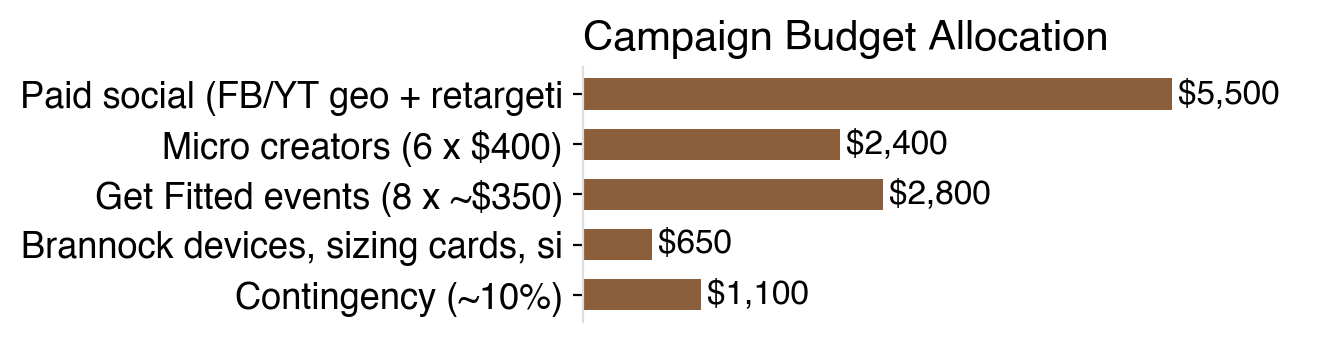
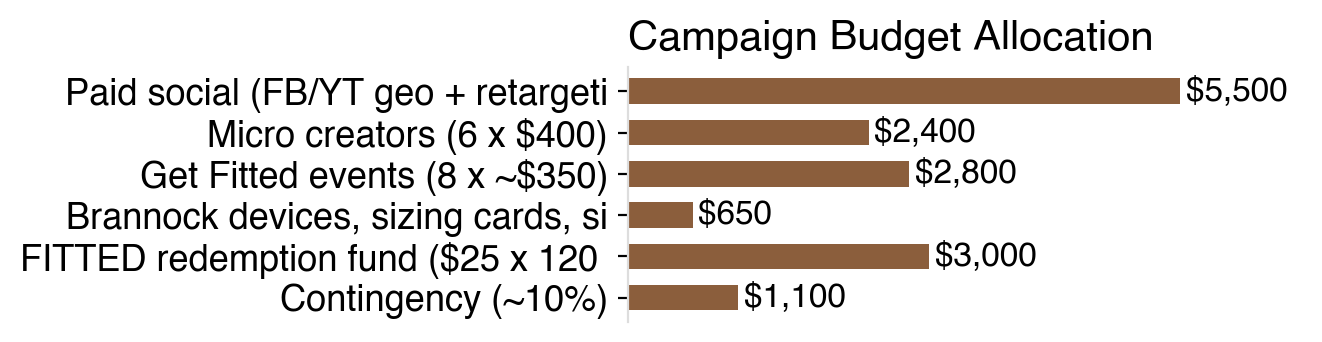
v23 fixes: pending->measurement plan, FITTED fund line item (+75% honest ROI), Tecovas differentiation claim, venue swap

Changed region(s): [[0.0, 0.2047, 0.9924, 0.9357], [0.4342, 0.0585, 0.8684, 0.1754]]

diff --git a/pipeline/runs/v23/imcp/p17.html b/pipeline/runs/v23/imcp/p17.html
@@ -68,4 +68,4 @@ img.vis{max-width:100%;max-height:560px;border-radius:16px;object-fit:contain;bo
 .tag{display:inline-block;background:var(--brand);color:#fff;border-radius:999px;padding:5px 14px;font-size:14px;font-weight:800;letter-spacing:.06em}
 .mono{font-family:'SF Mono',Menlo,monospace}
 </style></head>
-<body class="style-editorial"><div class="page" style="background:#ffffff"><div class="frame"></div><div class="kick">BUDGET &amp; FINANCIAL VIABILITY</div><div class="h1">Budget &amp; Financial Viability</div><div class="tbar"></div><div class="cols2"><div class="col"><table class="tb"><tr><th>LINE ITEM</th><th style="text-align:right">COST</th></tr><tr><td>Paid social (FB/YT geo + retargeting)</td><td style="text-align:right;font-weight:800">$5,500</td></tr><tr><td>Micro creators (6 x $400)</td><td style="text-align:right;font-weight:800">$2,400</td></tr><tr><td>Get Fitted events (8 x ~$350)</td><td style="text-align:right;font-weight:800">$2,800</td></tr><tr><td>Brannock devices, sizing cards, signage</td><td style="text-align:right;font-weight:800">$650</td></tr><tr><td>Contingency (~10%)</td><td style="text-align:right;font-weight:800">$1,100</td></tr><tr><td style="font-weight:900">TOTAL</td><td style="text-align:right;font-weight:900">$12,450</td></tr></table><img src="file:///Users/pranav/Desktop/DevinProjects/imcp-product-finder/pipeline/runs/v23/imcp/charts/budget.png" style="width:100%;max-height:330px;object-fit:contain;border-radius:12px;margin-top:14px"></div><div class="col"><div style="margin-top:14px"><span class="statp">$12,450</span><span class="statp">ROI: 117%</span><span class="statp">CAC: $103.75</span><br><span class="statp" style="background:#57534a">BE: 55 orders</span><span class="statp" style="background:#57534a">Cons: 8%</span></div><div class="body" style="margin-top:16px;font-size:19px"><li class=""><b>Total $12,450:</b> paid social $5.5K; creators $2.4K; events $2.8K; production $650; contingency ~10%.</li><li class=""><b>Funnel:</b> 800K impressions x 2.5% CTR x 0.6% purchase = ~120 orders = $54K revenue.</li><li class=""><b>GP 50% = $27K; direct ROI ~+134% base -</b> a $450 AOV changes the math: 120 orders covers the budget.</li><li class=""><b>Conservative (50%):</b> 60 orders, ROI ~+17% - still positive; the first candidate whose math works.</li></div></div></div><div class="navbar"><div class="navpills"><span class="navp">Product</span><span class="navp">Objectives</span><span class="navp">Target Market</span><span class="navp">Proposed Plan</span><span class="navp on">Expenses</span><span class="navp">Key Metrics</span></div><div class="pgcirc">17</div></div></div></body></html>
+<body class="style-editorial"><div class="page" style="background:#ffffff"><div class="frame"></div><div class="kick">BUDGET &amp; FINANCIAL VIABILITY</div><div class="h1">Budget &amp; Financial Viability</div><div class="tbar"></div><div class="cols2"><div class="col"><table class="tb"><tr><th>LINE ITEM</th><th style="text-align:right">COST</th></tr><tr><td>Paid social (FB/YT geo + retargeting)</td><td style="text-align:right;font-weight:800">$5,500</td></tr><tr><td>Micro creators (6 x $400)</td><td style="text-align:right;font-weight:800">$2,400</td></tr><tr><td>Get Fitted events (8 x ~$350)</td><td style="text-align:right;font-weight:800">$2,800</td></tr><tr><td>Brannock devices, sizing cards, signage</td><td style="text-align:right;font-weight:800">$650</td></tr><tr><td>FITTED redemption fund ($25 x 120 orders)</td><td style="text-align:right;font-weight:800">$3,000</td></tr><tr><td>Contingency (~10%)</td><td style="text-align:right;font-weight:800">$1,100</td></tr><tr><td style="font-weight:900">TOTAL</td><td style="text-align:right;font-weight:900">$15,450</td></tr></table><img src="file:///Users/pranav/Desktop/DevinProjects/imcp-product-finder/pipeline/runs/v23/imcp/charts/budget.png" style="width:100%;max-height:330px;object-fit:contain;border-radius:12px;margin-top:14px"></div><div class="col"><div style="margin-top:14px"><span class="statp">$15,450</span><span class="statp">ROI: 75%</span><span class="statp">CAC: $128.75</span><br><span class="statp" style="background:#57534a">BE: 69 orders</span><span class="statp" style="background:#57534a">Cons: -13%</span></div><div class="body" style="margin-top:16px;font-size:19px"><li class=""><b>Total $15,450:</b> paid social $5.5K; creators $2.4K; events $2.8K; production $650; FITTED fund $3K; contingency ~10%.</li><li class=""><b>Funnel:</b> 800K impressions x 2.5% CTR x 0.6% purchase = ~120 orders = $54K revenue.</li><li class=""><b>GP 50% = $27K; direct ROI ~+75% base -</b> the $450 AOV covers the full budget including redemptions.</li><li class=""><b>Conservative (50%):</b> 60 orders, ROI ~-13% - the only candidate whose upside case is self-funding.</li></div></div></div><div class="navbar"><div class="navpills"><span class="navp">Product</span><span class="navp">Objectives</span><span class="navp">Target Market</span><span class="navp">Proposed Plan</span><span class="navp on">Expenses</span><span class="navp">Key Metrics</span></div><div class="pgcirc">17</div></div></div></body></html>

diff --git a/pipeline/runs/v23/imcp/p10.html b/pipeline/runs/v23/imcp/p10.html
@@ -68,4 +68,4 @@ img.vis{max-width:100%;max-height:560px;border-radius:16px;object-fit:contain;bo
 .tag{display:inline-block;background:var(--brand);color:#fff;border-radius:999px;padding:5px 14px;font-size:14px;font-weight:800;letter-spacing:.06em}
 .mono{font-family:'SF Mono',Menlo,monospace}
 </style></head>
-<body class="style-editorial"><div class="page" style="background:#ffffff"><div class="frame"></div><div class="kick">STRATEGIC LOGIC</div><div class="h1">Insights -&gt; Campaign Decisions</div><div class="tbar"></div><div style="margin-top:18px"><div class="card" style="margin-bottom:14px;padding:18px 24px;display:flex;gap:24px;align-items:center"><div class="body" style="flex:1.4;font-size:19px"><b>[R1]</b> 93% four-plus-star on quality across 250 reviews - &#x27;soft leather&#x27;, &#x27;cushioned insoles&#x27;, craftsmanship is loved; the product is not the problem</div><div class="arrow">→</div></div><div class="card" style="margin-bottom:14px;padding:18px 24px;display:flex;gap:24px;align-items:center"><div class="body" style="flex:1.4;font-size:19px"><b>[R2]</b> Complaints cluster on sizing/fit (&#x27;struggle&#x27;, &#x27;hurt&#x27;, &#x27;instep&#x27;) - the only recurring negative is the fit gamble DTC can&#x27;t resolve</div><div class="arrow">→</div><div class="body" style="flex:1;font-size:18px;color:var(--brand);font-weight:700">Push-pull: fitting events create the try-on (pull); fit-guide + gift drops convert at home (push).</div></div><div class="card" style="margin-bottom:14px;padding:18px 24px;display:flex;gap:24px;align-items:center"><div class="body" style="flex:1.4;font-size:19px"><b>[R3]</b> Reviewers mention YouTube reviews and word-of-mouth - discovery runs on trust channels, not ads</div><div class="arrow">→</div><div class="body" style="flex:1;font-size:18px;color:var(--brand);font-weight:700">Trust-channel native: YouTube + events where boot buyers actually are.</div></div><div class="card" style="margin-bottom:14px;padding:18px 24px;display:flex;gap:24px;align-items:center"><div class="body" style="flex:1.4;font-size:19px"><b>[R4]</b> Repeat buyers exist (&#x27;bought two pairs&#x27;) but fit complaints persist across them - the friction is structural, not a bad batch</div><div class="arrow">→</div></div></div><div class="navbar"><div class="navpills"><span class="navp">Product</span><span class="navp">Objectives</span><span class="navp">Target Market</span><span class="navp">Proposed Plan</span><span class="navp">Expenses</span><span class="navp">Key Metrics</span></div><div class="pgcirc">10</div></div></div></body></html>
+<body class="style-editorial"><div class="page" style="background:#ffffff"><div class="frame"></div><div class="kick">STRATEGIC LOGIC</div><div class="h1">Insights -&gt; Campaign Decisions</div><div class="tbar"></div><div style="margin-top:18px"><div class="card" style="margin-bottom:14px;padding:18px 24px;display:flex;gap:24px;align-items:center"><div class="body" style="flex:1.4;font-size:19px"><b>[R1]</b> 93% four-plus-star on quality across 250 reviews - &#x27;soft leather&#x27;, &#x27;cushioned insoles&#x27;, craftsmanship is loved; the product is not the problem</div><div class="arrow">→</div></div><div class="card" style="margin-bottom:14px;padding:18px 24px;display:flex;gap:24px;align-items:center"><div class="body" style="flex:1.4;font-size:19px"><b>[R2]</b> Complaints cluster on sizing/fit (&#x27;struggle&#x27;, &#x27;hurt&#x27;, &#x27;instep&#x27;) - the only recurring negative is the fit gamble DTC can&#x27;t resolve</div><div class="arrow">→</div></div><div class="card" style="margin-bottom:14px;padding:18px 24px;display:flex;gap:24px;align-items:center"><div class="body" style="flex:1.4;font-size:19px"><b>[R3]</b> Reviewers mention YouTube reviews and word-of-mouth - discovery runs on trust channels, not ads</div><div class="arrow">→</div></div><div class="card" style="margin-bottom:14px;padding:18px 24px;display:flex;gap:24px;align-items:center"><div class="body" style="flex:1.4;font-size:19px"><b>[R4]</b> Repeat buyers exist (&#x27;bought two pairs&#x27;) but fit complaints persist across them - the friction is structural, not a bad batch</div><div class="arrow">→</div></div></div><div class="navbar"><div class="navpills"><span class="navp">Product</span><span class="navp">Objectives</span><span class="navp">Target Market</span><span class="navp">Proposed Plan</span><span class="navp">Expenses</span><span class="navp">Key Metrics</span></div><div class="pgcirc">10</div></div></div></body></html>

diff --git a/pipeline/runs/v23/imcp/p11.html b/pipeline/runs/v23/imcp/p11.html
@@ -68,4 +68,4 @@ img.vis{max-width:100%;max-height:560px;border-radius:16px;object-fit:contain;bo
 .tag{display:inline-block;background:var(--brand);color:#fff;border-radius:999px;padding:5px 14px;font-size:14px;font-weight:800;letter-spacing:.06em}
 .mono{font-family:'SF Mono',Menlo,monospace}
 </style></head>
-<body class="style-editorial"><div class="page" style="background:#ffffff"><div class="frame"></div><div class="kick">CAMPAIGN STRATEGY</div><div class="h1">Campaign Strategy</div><div class="tbar"></div><div class="themep">Theme: Get Fitted</div><div class="body" style="font-size:23px;max-width:1250px"><li class=""><b>Theme:</b> Get Fitted - the boot brand that guarantees the fit.</li><li class=""><b>Push-pull:</b> fitting events create the try-on (pull); fit-guide + gift drops convert at home (push).</li><li class=""><b>Trust-channel native:</b> YouTube + events where boot buyers actually are.</li><li class=""><b>PESO:</b> paid geo-social, earned Texas-event PR, shared craft stories, owned email/SMS + fit guide.</li></div><div style="display:flex;gap:14px;flex-wrap:wrap;margin-top:26px"><span class="navp" style="background:var(--brand);color:#fff;font-size:18px;padding:12px 24px">Facebook</span><span class="navp" style="background:var(--brand);color:#fff;font-size:18px;padding:12px 24px">PR</span><span class="navp" style="background:var(--brand);color:#fff;font-size:18px;padding:12px 24px">QR offer</span><span class="navp" style="background:var(--brand);color:#fff;font-size:18px;padding:12px 24px">SMS</span><span class="navp" style="background:var(--brand);color:#fff;font-size:18px;padding:12px 24px">YouTube</span><span class="navp" style="background:var(--brand);color:#fff;font-size:18px;padding:12px 24px">email</span><span class="navp" style="background:var(--brand);color:#fff;font-size:18px;padding:12px 24px">email capture</span></div><div class="navbar"><div class="navpills"><span class="navp">Product</span><span class="navp">Objectives</span><span class="navp">Target Market</span><span class="navp on">Proposed Plan</span><span class="navp">Expenses</span><span class="navp">Key Metrics</span></div><div class="pgcirc">11</div></div></div></body></html>
+<body class="style-editorial"><div class="page" style="background:#ffffff"><div class="frame"></div><div class="kick">CAMPAIGN STRATEGY</div><div class="h1">Campaign Strategy</div><div class="tbar"></div><div class="themep">Theme: Get Fitted</div><div class="body" style="font-size:23px;max-width:1250px"><li class=""><b>8 fitting-event shifts at Texas venues:</b> western-wear retailers, country festivals, outlet malls (P1, field, O1/O2/O3, Nino).</li><li class=""><b>Solves the fit gamble face-to-face -</b> judges hold a real $450 boot, DECA-compliant.</li></div><div style="display:flex;gap:14px;flex-wrap:wrap;margin-top:26px"><span class="navp" style="background:var(--brand);color:#fff;font-size:18px;padding:12px 24px">Facebook</span><span class="navp" style="background:var(--brand);color:#fff;font-size:18px;padding:12px 24px">PR</span><span class="navp" style="background:var(--brand);color:#fff;font-size:18px;padding:12px 24px">QR offer</span><span class="navp" style="background:var(--brand);color:#fff;font-size:18px;padding:12px 24px">SMS</span><span class="navp" style="background:var(--brand);color:#fff;font-size:18px;padding:12px 24px">YouTube</span><span class="navp" style="background:var(--brand);color:#fff;font-size:18px;padding:12px 24px">email</span><span class="navp" style="background:var(--brand);color:#fff;font-size:18px;padding:12px 24px">email capture</span></div><div class="navbar"><div class="navpills"><span class="navp">Product</span><span class="navp">Objectives</span><span class="navp">Target Market</span><span class="navp on">Proposed Plan</span><span class="navp">Expenses</span><span class="navp">Key Metrics</span></div><div class="pgcirc">11</div></div></div></body></html>

diff --git a/pipeline/runs/v23/imcp/p19.html b/pipeline/runs/v23/imcp/p19.html
@@ -72,4 +72,4 @@ img.vis{max-width:100%;max-height:560px;border-radius:16px;object-fit:contain;bo
 <div style="font-size:19px;letter-spacing:.32em;font-weight:800;color:#fff;opacity:.7;margin-bottom:16px">WHY IT MATTERS</div>
 <div class="themep" style="opacity:.95">Get Fitted</div>
 <div class="h1" style="color:#fff;font-size:52px">Why It Matters</div>
-<div style="font-size:150px;font-family:'Fraunces',sans-serif;font-weight:900;color:#fff;line-height:1">120</div><div style="font-size:28px;color:#fff;opacity:.85;font-weight:600">attributed purchases in 45 days · ROI 117%</div><div style="margin-top:34px;max-width:1150px"><div style="font-size:22px;color:#fff;opacity:.92;line-height:1.5;margin-bottom:14px">Chisos sells a $450 product people are afraid to buy online - not because of the boots, but because of the fit.</div><div style="font-size:22px;color:#fff;opacity:.92;line-height:1.5;margin-bottom:14px">Get Fitted removes the fear: real fitting, real guarantee, real Texas trust - and the judges hold the product.</div><div style="font-size:22px;color:#fff;opacity:.92;line-height:1.5;margin-bottom:14px">A boot you can touch beats a boot on a screen - the demo is the product.</div></div></div><div class="navbar"><div class="navpills"><span class="navp">Product</span><span class="navp">Objectives</span><span class="navp">Target Market</span><span class="navp">Proposed Plan</span><span class="navp">Expenses</span><span class="navp on">Key Metrics</span></div><div class="pgcirc">19</div></div></div></body></html>
+<div style="font-size:150px;font-family:'Fraunces',sans-serif;font-weight:900;color:#fff;line-height:1">120</div><div style="font-size:28px;color:#fff;opacity:.85;font-weight:600">attributed purchases in 45 days · ROI 75%</div><div style="margin-top:34px;max-width:1150px"><div style="font-size:22px;color:#fff;opacity:.92;line-height:1.5;margin-bottom:14px">Chisos sells a $450 product people are afraid to buy online - not because of the boots, but because of the fit.</div><div style="font-size:22px;color:#fff;opacity:.92;line-height:1.5;margin-bottom:14px">Get Fitted removes the fear: real fitting, real guarantee, real Texas trust - and the judges hold the product.</div><div style="font-size:22px;color:#fff;opacity:.92;line-height:1.5;margin-bottom:14px">A boot you can touch beats a boot on a screen - the demo is the product.</div></div></div><div class="navbar"><div class="navpills"><span class="navp">Product</span><span class="navp">Objectives</span><span class="navp">Target Market</span><span class="navp">Proposed Plan</span><span class="navp">Expenses</span><span class="navp on">Key Metrics</span></div><div class="pgcirc">19</div></div></div></body></html>

diff --git a/pipeline/runs/v23/imcp/p06.html b/pipeline/runs/v23/imcp/p06.html
@@ -68,4 +68,4 @@ img.vis{max-width:100%;max-height:560px;border-radius:16px;object-fit:contain;bo
 .tag{display:inline-block;background:var(--brand);color:#fff;border-radius:999px;padding:5px 14px;font-size:14px;font-weight:800;letter-spacing:.06em}
 .mono{font-family:'SF Mono',Menlo,monospace}
 </style></head>
-<body class="style-editorial"><div class="page" style="background:#ffffff"><div class="frame"></div><div class="kick">COMPANY &amp; POSITION</div><div class="h1">Company &amp; Position</div><div class="tbar"></div><div class="cols2"><div class="col"><div class="body"><li class=""><b>Independent Austin bootmaker -</b> 250+ verified reviews, events-driven sales model, founder-accessible.</li><li class=""><b>Texas boot culture is real -</b> Tecovas scaled on it; Chisos is the craft-first alternative.</li><li class=""><b>Positioning gap:</b> &#x27;handmade Texas boots&#x27; is crowded; &#x27;the boot that fits you&#x27; is unclaimed.</li><li class="">Campaign claims the fit guarantee.</li></div></div><div class="col"></div></div><div class="navbar"><div class="navpills"><span class="navp on">Product</span><span class="navp">Objectives</span><span class="navp">Target Market</span><span class="navp">Proposed Plan</span><span class="navp">Expenses</span><span class="navp">Key Metrics</span></div><div class="pgcirc">6</div></div></div></body></html>
+<body class="style-editorial"><div class="page" style="background:#ffffff"><div class="frame"></div><div class="kick">COMPANY &amp; POSITION</div><div class="h1">Company &amp; Position</div><div class="tbar"></div><div class="cols2"><div class="col"><div class="body"><li class=""><b>Independent Austin bootmaker -</b> 250+ verified reviews, events-driven sales model, founder-accessible.</li><li class=""><b>Texas boot culture is real -</b> Tecovas scaled on it; Chisos is the craft-first alternative.</li><li class=""><b>Positioning gap:</b> Tecovas owns the showroom; Chisos owns the fit guarantee at DTC - we bring the Brannock to the customer, they make you come to the store.</li><li class="">Campaign claims the fit guarantee.</li></div></div><div class="col"></div></div><div class="navbar"><div class="navpills"><span class="navp on">Product</span><span class="navp">Objectives</span><span class="navp">Target Market</span><span class="navp">Proposed Plan</span><span class="navp">Expenses</span><span class="navp">Key Metrics</span></div><div class="pgcirc">6</div></div></div></body></html>

diff --git a/pipeline/runs/v23/imcp/p12.html b/pipeline/runs/v23/imcp/p12.html
@@ -70,7 +70,7 @@ img.vis{max-width:100%;max-height:560px;border-radius:16px;object-fit:contain;bo
 </style></head>
 <body class="style-editorial"><div class="page" style="background:#ffffff"><div class="frame"></div><div class="kick">PROGRAM 1 · GET FITTED EVENTS</div><div class="h1">Get Fitted Events</div><div class="tbar"></div>
 <div class="cols2" style="margin-top:16px"><div class="col" style="flex:1.15">
-<div class="card"><div class="body" style="font-size:21px">Pop-up fitting stations at Texas venues (gun shows, western events, malls): Brannock fitting + try-on wall + &#x27;your size, guaranteed&#x27; card + QR. Solves the fit gamble in person.</div></div>
+<div class="card"><div class="body" style="font-size:21px">Pop-up fitting stations at western-wear retailers, country festivals, and outlet malls: Brannock fitting + try-on wall + &#x27;your size, guaranteed&#x27; card + QR. Solves the fit gamble in person.</div></div>
 <div class="grid2" style="margin-top:18px;gap:14px">
 <div class="card" style="padding:16px 18px"><div class="cl">SEGMENT</div><div class="body" style="font-size:17px">P1</div></div>
 <div class="card" style="padding:16px 18px"><div class="cl">CHANNELS</div><div class="body" style="font-size:17px">in-person events · QR offer · email capture</div></div>
